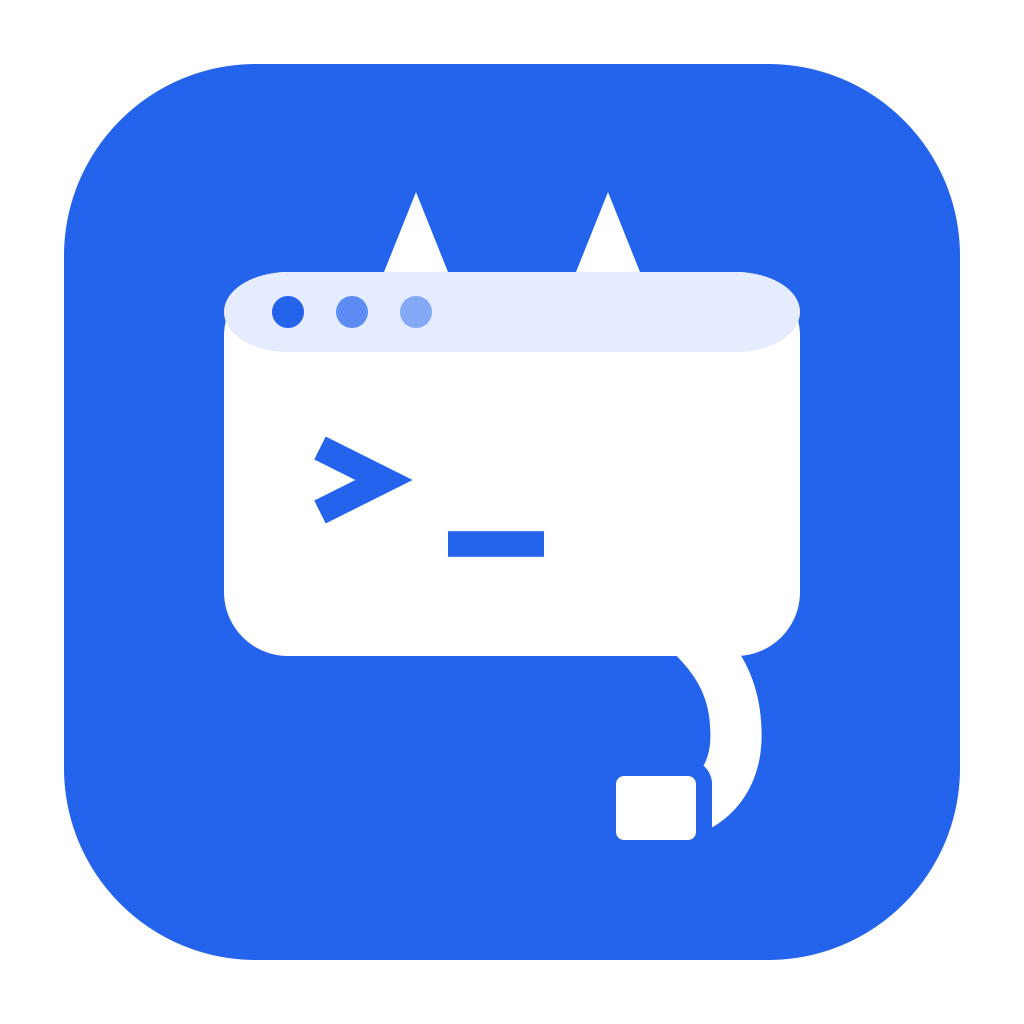
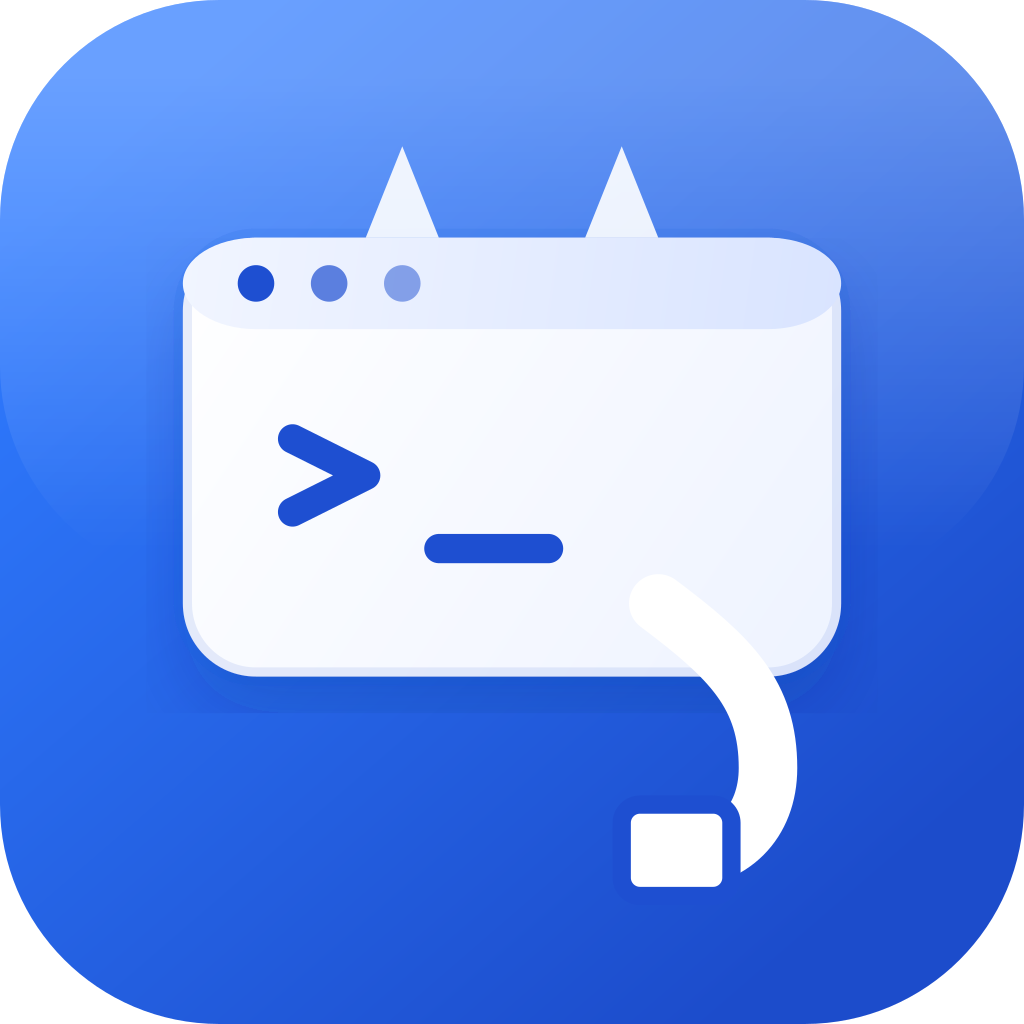
添加全屏支持，更新窗口控制逻辑和图标资源
Adds fullscreen support and updates window controls

Introduces fullscreen detection and change events for windows,
adjusts UI logic for fullscreen state on macOS, and updates icon
and logo assets for improved appearance. Enhances user experience
by better accommodating fullscreen workflows.

diff --git a/components/TopTabs.tsx b/components/TopTabs.tsx
@@ -132,7 +132,7 @@ const TopTabsInner: React.FC<TopTabsProps> = ({
 }) => {
   const { t } = useI18n();
   // Subscribe to activeTabId from external store
-  const { maximize } = useWindowControls();
+  const { maximize, isFullscreen, onFullscreenChanged } = useWindowControls();
   const activeTabId = useActiveTabId();
   const isVaultActive = activeTabId === 'vault';
   const isSftpActive = activeTabId === 'sftp';
@@ -142,6 +142,20 @@ const TopTabsInner: React.FC<TopTabsProps> = ({
   const [dropIndicator, setDropIndicator] = useState<{ tabId: string; position: 'before' | 'after' } | null>(null);
   const [isDraggingForReorder, setIsDraggingForReorder] = useState(false);
   const draggedTabIdRef = useRef<string | null>(null);
+  const [isWindowFullscreen, setIsWindowFullscreen] = useState(false);
+
+  useEffect(() => {
+    if (!isMacClient) return;
+    let cancelled = false;
+    isFullscreen().then((value) => {
+      if (!cancelled) setIsWindowFullscreen(!!value);
+    });
+    const unsubscribe = onFullscreenChanged((value) => setIsWindowFullscreen(!!value));
+    return () => {
+      cancelled = true;
+      unsubscribe();
+    };
+  }, [isFullscreen, isMacClient, onFullscreenChanged]);
 
   // Refs for scrollable tab container
   const tabsContainerRef = useRef<HTMLDivElement>(null);
@@ -512,7 +526,7 @@ const TopTabsInner: React.FC<TopTabsProps> = ({
       <div className="absolute inset-x-0 top-0 h-3 app-drag pointer-events-auto z-10" style={dragRegionStyle} aria-hidden />
       <div
         className="h-10 px-3 flex items-center gap-2 app-drag"
-        style={{ ...dragRegionStyle, paddingLeft: isMacClient ? 76 : 12 }}
+        style={{ ...dragRegionStyle, paddingLeft: isMacClient && !isWindowFullscreen ? 76 : 12 }}
       >
         {/* Fixed left tabs: Vaults and SFTP */}
         <div className="flex items-center gap-2 flex-shrink-0 app-drag">

diff --git a/application/state/useWindowControls.ts b/application/state/useWindowControls.ts
@@ -40,6 +40,16 @@ export const useWindowControls = () => {
     return bridge?.windowIsMaximized?.();
   }, []);
 
+  const isFullscreen = useCallback(async () => {
+    const bridge = netcattyBridge.get();
+    return bridge?.windowIsFullscreen?.() ?? false;
+  }, []);
+
+  const onFullscreenChanged = useCallback((cb: (isFullscreen: boolean) => void) => {
+    const bridge = netcattyBridge.get();
+    return bridge?.onWindowFullScreenChanged?.(cb) ?? (() => {});
+  }, []);
+
   return {
     notifyRendererReady,
     closeSettingsWindow,
@@ -48,6 +58,7 @@ export const useWindowControls = () => {
     maximize,
     close,
     isMaximized,
+    isFullscreen,
+    onFullscreenChanged,
   };
 };
-

diff --git a/global.d.ts b/global.d.ts
@@ -227,6 +227,8 @@ interface NetcattyBridge {
   windowMaximize?(): Promise<boolean>;
   windowClose?(): Promise<void>;
   windowIsMaximized?(): Promise<boolean>;
+  windowIsFullscreen?(): Promise<boolean>;
+  onWindowFullScreenChanged?(cb: (isFullscreen: boolean) => void): () => void;
   
   // Settings window
   openSettingsWindow?(): Promise<boolean>;
